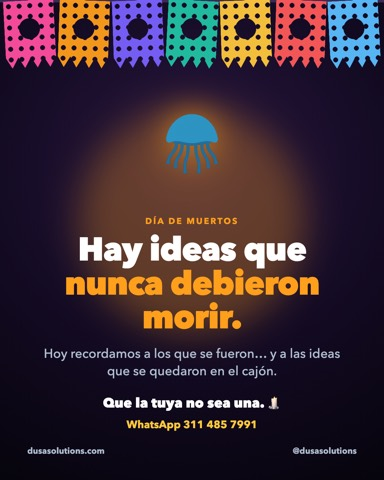
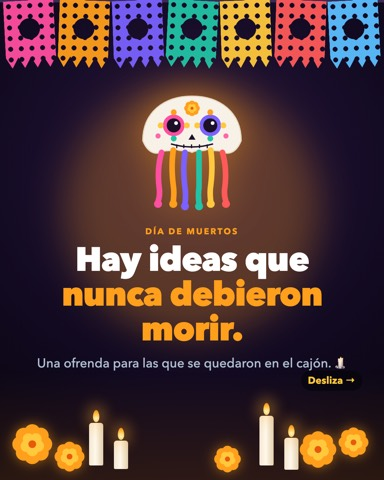
panel: Día de Muertos ahora es carrusel de 4 con la medusa calaverita

diff --git a/index.html b/index.html
@@ -250,7 +250,7 @@ footer{margin-top:28px;text-align:center;font-size:12px;color:var(--faint)}
 <div class="toast" id="toast" role="status" aria-live="polite"></div>
 
 <script>
-const APP = {"posts": [{"id": "anuncio", "group": "pausa", "date": null, "title": "Algo cambió en Dusa (anuncio)", "pillar": "Marca", "status": "listo", "caption": "Algo cambió en Dusa. 🔵\n\nNacimos el 13 de abril de 2025 construyendo apps para otros negocios, y nos encanta. Pero siempre tuvimos ideas propias… así que empezamos a construirlas.\n\nYa en el mundo:\n🚻 BathMap — el mapa de baños que le faltaba a México (bathmap.online)\n🧩 Blokku — nuestro juego de puzzle, ya en Google Play\n\nMuy pronto:\n🧾 Fakturo — cotiza, factura y cobra\n💸 TuLana — tu lana, organizada sola\n💪 Coachly — tu coach de entrenamiento con IA\n\nDesde hoy Dusa es un estudio de apps hechas para México. Hacemos las nuestras… y seguimos haciendo la tuya.\n\n¿Tienes una idea? Escríbenos por WhatsApp 👉 311 485 7991\n\nSíguenos para ver cómo las construimos. 🪼\n\n#HechoEnMéxico #Apps #Startups #DesarrolloDeApps #Guadalajara #GDL #BuildInPublic", "note": "Publícalo el día que Blokku aparezca en Google Play. Ese mismo día: bio nueva (PERFIL/BIO.md), portada de FB y archiva los posts viejos de agencia.", "slides": [{"full": "img/anuncio/1.jpg?v=8a9ebbe0", "thumb": "img/anuncio/t1.jpg?v=bb9941f2"}, {"full": "img/anuncio/2.jpg?v=7ba1bb19", "thumb": "img/anuncio/t2.jpg?v=8ef2c3f8"}, {"full": "img/anuncio/3.jpg?v=8657e8e2", "thumb": "img/anuncio/t3.jpg?v=9787a160"}, {"full": "img/anuncio/4.jpg?v=aaf8ee6f", "thumb": "img/anuncio/t4.jpg?v=48d3c8ba"}, {"full": "img/anuncio/5.jpg?v=892c2be6", "thumb": "img/anuncio/t5.jpg?v=96ed7650"}, {"full": "img/anuncio/6.jpg?v=250e0fbd", "thumb": "img/anuncio/t6.jpg?v=fd3e6b2f"}], "short": "Original", "when": "El día que Blokku salga en Google Play"}, {"id": "o1", "group": "oct", "date": "2026-10-02", "title": "BathMap: cómo usarlo en 3 pasos", "pillar": "Producto", "status": "listo", "caption": "¿Urgencia? 🚻 Así encuentras un baño en segundos con BathMap:\n\n1⃣ Abre el mapa y filtra: gratis, $5 o menos, con papel o jabón\n2⃣ Revisa la ficha: precio, cómo llegar y reseñas\n3⃣ ¿Conoces uno que no está? Agrégalo y ayuda a otros\n\nEs gratis y funciona desde el navegador 👉 bathmap.online\n\nGuárdalo para cuando lo necesites 🔖 y compártelo con quien siempre anda buscando baño 😅\n\n#BathMap #HechoEnMéxico #Guadalajara #CDMX #Apps", "note": "", "slides": [{"full": "img/o1/1.jpg?v=019a394d", "thumb": "img/o1/t1.jpg?v=a35bcdc6"}, {"full": "img/o1/2.jpg?v=bb81c3a8", "thumb": "img/o1/t2.jpg?v=d3210e54"}, {"full": "img/o1/3.jpg?v=05d0eb66", "thumb": "img/o1/t3.jpg?v=1a595bf3"}, {"full": "img/o1/4.jpg?v=720c1bb7", "thumb": "img/o1/t4.jpg?v=74b3b049"}]}, {"id": "o2", "group": "oct", "date": "2026-10-05", "title": "Cómo cobrar sin perseguir a nadie", "pillar": "Útil", "status": "listo", "caption": "Freelancer: si alguna vez mandaste \"¿cómo vas con el pago? 🙏\"… esto es para ti.\n\n4 hábitos para cobrar sin perseguir a nadie:\n1⃣ Pide anticipo (30–50%) antes de empezar\n2⃣ Todo por escrito: qué incluye, cuánto y cuándo se paga\n3⃣ Pon fecha de pago y avisa un día antes\n4⃣ Haz fácil pagarte: transferencia, tarjeta o link\n\nGuárdalo 🔖 y compártelo con ese amigo freelancer que siempre anda cobrando.\n\nP.D. Estamos creando Fakturo justo para esto. Muy pronto 🧾\n\n#Freelancer #Emprendedores #PyMEsMexico #Finanzas #Guadalajara", "note": "", "slides": [{"full": "img/o2/1.jpg?v=0dbce985", "thumb": "img/o2/t1.jpg?v=5e15197c"}, {"full": "img/o2/2.jpg?v=99d81dd8", "thumb": "img/o2/t2.jpg?v=eab1806f"}, {"full": "img/o2/3.jpg?v=47a7e26a", "thumb": "img/o2/t3.jpg?v=95d46f70"}, {"full": "img/o2/4.jpg?v=a1115e14", "thumb": "img/o2/t4.jpg?v=ec0dc45c"}, {"full": "img/o2/5.jpg?v=185dce34", "thumb": "img/o2/t5.jpg?v=b39daacc"}]}, {"id": "o3", "group": "oct", "date": "2026-10-07", "title": "Muy pronto: Fakturo", "pillar": "Producto", "status": "listo", "caption": "Muy pronto: Fakturo 🧾\n\nLa app que estamos construyendo para freelancers y pequeños negocios en México:\n✅ Cotiza y factura desde tu cel\n✅ Cobra por WhatsApp en un toque\n✅ PDFs con tu logo y tus colores\n✅ Ve cuánto cobraste, cuánto te deben y en qué gastas\n\n¿Quieres ser de los primeros en usarla? Mándanos la palabra FAKTURO por DM o por WhatsApp (311 485 7991) y te avisamos primero 👀\n\n#Fakturo #Freelancer #PyMEsMexico #Facturación #HechoEnMéxico", "note": "Pide que escriban FAKTURO: anota quién lo pide, es tu lista de espera.", "slides": [{"full": "img/o3/1.jpg?v=d94081e1", "thumb": "img/o3/t1.jpg?v=befe4843"}, {"full": "img/o3/2.jpg?v=aca05b66", "thumb": "img/o3/t2.jpg?v=941ab06f"}, {"full": "img/o3/3.jpg?v=c7ec0811", "thumb": "img/o3/t3.jpg?v=33bf565f"}, {"full": "img/o3/4.jpg?v=9410064a", "thumb": "img/o3/t4.jpg?v=342eff9e"}]}, {"id": "o4", "group": "oct", "date": "2026-10-09", "title": "Qué debe llevar una cotización profesional", "pillar": "Útil", "status": "listo", "caption": "Tu cotización dice mucho de ti antes de que empieces a trabajar 📄\n\nChecklist de una cotización profesional:\n✓ Tus datos y los de tu cliente\n✓ Qué incluye… y qué NO incluye\n✓ Precio con IVA desglosado\n✓ Tiempos de entrega\n✓ Forma y fechas de pago\n✓ Vigencia (ej. 15 días)\n\nCon esto te ahorras malentendidos, cambios infinitos y pagos atrasados.\n\nGuárdala 🔖 para tu próxima cotización.\n\n#Freelancer #Emprendedores #PyMEsMexico #Negocios #Guadalajara", "note": "", "slides": [{"full": "img/o4/1.jpg?v=86f1bd83", "thumb": "img/o4/t1.jpg?v=dff5a564"}]}, {"id": "o5", "group": "oct", "date": "2026-10-12", "title": "Lo que construimos para nosotros, lo construimos para ti", "pillar": "Estudio", "status": "listo", "caption": "Hacemos nuestras propias apps (BathMap, Blokku y las que vienen)… y también hacemos la tuya 🪼\n\nAsí trabajamos:\n1⃣ Platicamos 15 minutos, gratis\n2⃣ Te mandamos una propuesta por escrito: qué, cuánto y cuándo\n3⃣ Cada semana ves avances\n4⃣ El código es tuyo, siempre\n\n¿Tienes una idea dando vueltas? Escríbenos por WhatsApp 👉 311 485 7991\n\n#DesarrolloDeApps #DesarrolloWeb #Emprendedores #Guadalajara #HechoEnMéxico", "note": "", "slides": [{"full": "img/o5/1.jpg?v=4d8263ba", "thumb": "img/o5/t1.jpg?v=0d181015"}]}, {"id": "o6", "group": "oct", "date": "2026-10-14", "title": "Muy pronto: TuLana", "pillar": "Producto", "status": "listo", "caption": "Muy pronto: TuLana 💸 Tu lana, organizada sola.\n\n✅ Detecta cada cargo leyendo las notificaciones de tu banco\n✅ Sin login y sin dar tu clave: todo se queda en tu cel\n✅ ¿Pagaste en efectivo? Escríbelo como hablas: \"350 tacos con el jefe\" y listo\n\nSabes en qué se te va la quincena sin anotar nada.\n\nLlega primero a Android. Síguenos para enterarte del lanzamiento 🔔\n\n#TuLana #FinanzasPersonales #Ahorro #Quincena #HechoEnMéxico", "note": "", "slides": [{"full": "img/o6/1.jpg?v=efe859bd", "thumb": "img/o6/t1.jpg?v=a278c8f7"}, {"full": "img/o6/2.jpg?v=39ededd9", "thumb": "img/o6/t2.jpg?v=39d37c4b"}, {"full": "img/o6/3.jpg?v=c1a8f348", "thumb": "img/o6/t3.jpg?v=4bfb4633"}]}, {"id": "o7", "group": "oct", "date": "2026-10-16", "title": "Separa tu lana personal de la del negocio", "pillar": "Útil", "status": "listo", "caption": "¿Cobras y todo cae en la misma cuenta que usas para el súper? 😬\n\n3 pasos para separar tu lana de la del negocio:\n1⃣ Dos cuentas: una del negocio y otra personal\n2⃣ Págate un \"sueldo\" fijo cada quincena\n3⃣ Aparta un porcentaje de cada cobro para impuestos (tu contador te dice cuánto)\n\nParece poco, pero cambia todo: sabes cuánto ganas de verdad.\n\nGuárdalo 🔖 y empieza este mes.\n\n#Freelancer #FinanzasPersonales #Emprendedores #PyMEsMexico #Quincena", "note": "", "slides": [{"full": "img/o7/1.jpg?v=8f5414f1", "thumb": "img/o7/t1.jpg?v=cb87b66e"}, {"full": "img/o7/2.jpg?v=f77c85a3", "thumb": "img/o7/t2.jpg?v=6def560e"}, {"full": "img/o7/3.jpg?v=e5c42466", "thumb": "img/o7/t3.jpg?v=04aea40a"}, {"full": "img/o7/4.jpg?v=ac885774", "thumb": "img/o7/t4.jpg?v=a558ed71"}]}, {"id": "o8", "group": "oct", "date": "2026-10-19", "title": "BathMap nos cuesta ~$0 al mes", "pillar": "Detrás de cámaras", "status": "listo", "caption": "BathMap es gratis para todos… y a nosotros nos cuesta ~$0 al mes en servidores 🤯\n\n¿Cómo?\n⚡ Cloudflare Workers: corre cerca de cada usuario y su plan gratis nos alcanza\n🗺 OpenStreetMap: mapas y datos abiertos, sin licencias caras\n🐘 Neon (Postgres): base de datos en plan gratis\n\nLa lección: una buena idea no necesita un presupuesto enorme, necesita las decisiones correctas.\n\n¿Tienes una idea y crees que es muy cara de hacer? Platiquemos 👉 311 485 7991\n\n#DetrásDeCámaras #BuildInPublic #Startups #Tecnología #HechoEnMéxico", "note": "", "slides": [{"full": "img/o8/1.jpg?v=ce18896e", "thumb": "img/o8/t1.jpg?v=f93bb3d4"}, {"full": "img/o8/2.jpg?v=c8082569", "thumb": "img/o8/t2.jpg?v=9667f7a9"}, {"full": "img/o8/3.jpg?v=a62a23c1", "thumb": "img/o8/t3.jpg?v=eb95b9bd"}, {"full": "img/o8/4.jpg?v=6158758d", "thumb": "img/o8/t4.jpg?v=50aa61dd"}]}, {"id": "o9", "group": "oct", "date": "2026-10-21", "title": "Muy pronto: Coachly", "pillar": "Producto", "status": "listo", "caption": "Muy pronto: Coachly 💪 Tu coach de entrenamiento con IA.\n\n✅ Rutinas para cada nivel: fuerza, cardio, HIIT, yoga\n✅ Cada ejercicio explicado paso a paso\n✅ Tu progreso: rachas, récords y medidas\n\nPara que entrenes con un plan, no a ciegas.\n\nSíguenos para enterarte del lanzamiento 🔔\n\n#Coachly #Fitness #Entrenamiento #Gym #HechoEnMéxico", "note": "", "slides": [{"full": "img/o9/1.jpg?v=a8edcb52", "thumb": "img/o9/t1.jpg?v=dcbd2355"}, {"full": "img/o9/2.jpg?v=8fbee568", "thumb": "img/o9/t2.jpg?v=bb4155da"}, {"full": "img/o9/3.jpg?v=85665c19", "thumb": "img/o9/t3.jpg?v=d3c58796"}]}, {"id": "o10", "group": "oct", "date": "2026-10-23", "title": "¿Tu negocio necesita app o le basta una web?", "pillar": "Útil", "status": "listo", "caption": "¿Tu negocio necesita una app… o le basta una web? 🤔\n\nTe basta una WEB si:\n✓ Quieres que te encuentren en Google\n✓ Muestras tu catálogo o servicios\n✓ Recibes pedidos o citas por mensaje\n\nNecesitas una APP si:\n✓ Tus clientes regresan seguido\n✓ Necesitas avisarles con notificaciones\n✓ Usas funciones del cel: cámara, ubicación, pagos\n\n¿Sigues con la duda? Te decimos qué te conviene, gratis, en 15 minutos 👉 WhatsApp 311 485 7991\n\n#DesarrolloWeb #DesarrolloDeApps #PyMEsMexico #Emprendedores #Guadalajara", "note": "", "slides": [{"full": "img/o10/1.jpg?v=3a7618c1", "thumb": "img/o10/t1.jpg?v=ce37d012"}, {"full": "img/o10/2.jpg?v=acc26dc5", "thumb": "img/o10/t2.jpg?v=d0c05549"}, {"full": "img/o10/3.jpg?v=5e8995d0", "thumb": "img/o10/t3.jpg?v=799792db"}, {"full": "img/o10/4.jpg?v=a1c63ee0", "thumb": "img/o10/t4.jpg?v=cd7e8762"}]}, {"id": "o11", "group": "oct", "date": "2026-10-31", "title": "Halloween: los 3 sustos de todo freelancer", "pillar": "Marca", "status": "listo", "caption": "Feliz Halloween 🎃 Los 3 sustos de todo freelancer (y cómo espantarlos):\n\n👻 \"Te pago la otra semana\" → fecha límite desde la cotización, anticipo antes de empezar y tus datos de pago en la factura.\n\n🕸 Tu página no abre en el celular → ábrela hoy en tu teléfono, con datos. WhatsApp visible y precios claros.\n\n🧟 La cotización que nadie volvió a ver → en PDF, con vigencia, y seguimiento a los 3 días.\n\n¿Cuál te dio más miedo? Cuéntanos en los comentarios 👇\nY si alguno es tuyo, escríbenos 👉 WhatsApp 311 485 7991\n\n#Halloween #Freelancer #Emprendedores #PyMEsMexico #Guadalajara", "note": "", "slides": [{"full": "img/o11/1.jpg?v=faf9f67c", "thumb": "img/o11/t1.jpg?v=c56adeed"}, {"full": "img/o11/2.jpg?v=9618c42e", "thumb": "img/o11/t2.jpg?v=ba41bcef"}, {"full": "img/o11/3.jpg?v=ebb3b05b", "thumb": "img/o11/t3.jpg?v=e092637a"}, {"full": "img/o11/4.jpg?v=f8f50d9a", "thumb": "img/o11/t4.jpg?v=0a815dc1"}, {"full": "img/o11/5.jpg?v=e5845245", "thumb": "img/o11/t5.jpg?v=a07b0c3f"}]}, {"id": "o12", "group": "oct", "date": "2026-11-02", "title": "Día de Muertos: ideas que no deben morir", "pillar": "Marca", "status": "listo", "caption": "Este Día de Muertos recordamos a los que se fueron… 🕯🌼\n\n…y también a todas esas ideas que se quedaron en el cajón: la app que nunca se hizo, el negocio que nunca abrió su página, el \"algún día lo hago\".\n\nQue la tuya no sea una. Escríbenos y la platicamos 👉 311 485 7991\n\n#DíaDeMuertos #HechoEnMéxico #Emprendedores #Ideas #Guadalajara", "note": "", "slides": [{"full": "img/o12/1.jpg?v=9a7d14e7", "thumb": "img/o12/t1.jpg?v=11324db6"}]}, {"id": "o13", "group": "pausa", "date": null, "title": "Blokku ya está en Google Play", "pillar": "Producto", "status": "listo", "caption": "¡Blokku ya está en Google Play! 🧩\n\nNuestro primer juego: un puzzle de bloques para despejar la mente. Gratis, funciona sin conexión y está hecho aquí en México por el equipo de Dusa.\n\nDescárgalo: busca \"Blokku\" en Google Play o entra a blokku.online 👉\n\nSi te gusta, déjanos tu reseña ⭐ — nos ayuda muchísimo.\n\n#Blokku #JuegosMóviles #Puzzle #HechoEnMéxico #IndieDev #Android", "note": "Súbelo solo cuando Blokku ya esté publicado en Google Play (en el siguiente hueco libre después del anuncio).", "slides": [{"full": "img/o13/1.jpg?v=594f89e4", "thumb": "img/o13/t1.jpg?v=bc082934"}]}, {"id": "o14", "group": "pausa", "date": null, "title": "Así fue lanzar Blokku en Google Play", "pillar": "Detrás de cámaras", "status": "listo", "caption": "Así fue lanzar nuestra primera app en Google Play 🧩\n\n📅 14 días de prueba cerrada (Google lo pide a las cuentas nuevas)\n👥 24 testers en México, Argentina, Bolivia y Ecuador — nos pedían 12\n✅ 3 días para que aprobaran la publicación\n\nLa lección: programar es la mitad. La otra mitad es probar, pulir y cumplir requisitos.\n\nGracias a los 24 que probaron Blokku 💙 ¿Quieres probar nuestra próxima app antes que nadie? Escríbenos y te apuntamos.\n\n#DetrásDeCámaras #IndieDev #GooglePlay #HechoEnMéxico #BuildInPublic", "note": "Después del 13, cuando Blokku ya esté en Play.", "slides": [{"full": "img/o14/1.jpg?v=300cabd6", "thumb": "img/o14/t1.jpg?v=7c2092ee"}, {"full": "img/o14/2.jpg?v=4dda951b", "thumb": "img/o14/t2.jpg?v=7ce53d66"}, {"full": "img/o14/3.jpg?v=41452d17", "thumb": "img/o14/t3.jpg?v=0e2f7a5c"}, {"full": "img/o14/4.jpg?v=1b8a00c6", "thumb": "img/o14/t4.jpg?v=312cff1c"}, {"full": "img/o14/5.jpg?v=17ece00b", "thumb": "img/o14/t5.jpg?v=46d160f7"}]}], "h1": "Octubre <span>2026</span>", "free": ["2026-10-26", "2026-10-28", "2026-10-30"], "sub": "Lunes, miércoles y viernes a las 7–8 pm", "upd": "Actualizado el 01/10/2026 · estudio de apps hechas para México"};
+const APP = {"posts": [{"id": "anuncio", "group": "pausa", "date": null, "title": "Algo cambió en Dusa (anuncio)", "pillar": "Marca", "status": "listo", "caption": "Algo cambió en Dusa. 🔵\n\nNacimos el 13 de abril de 2025 construyendo apps para otros negocios, y nos encanta. Pero siempre tuvimos ideas propias… así que empezamos a construirlas.\n\nYa en el mundo:\n🚻 BathMap — el mapa de baños que le faltaba a México (bathmap.online)\n🧩 Blokku — nuestro juego de puzzle, ya en Google Play\n\nMuy pronto:\n🧾 Fakturo — cotiza, factura y cobra\n💸 TuLana — tu lana, organizada sola\n💪 Coachly — tu coach de entrenamiento con IA\n\nDesde hoy Dusa es un estudio de apps hechas para México. Hacemos las nuestras… y seguimos haciendo la tuya.\n\n¿Tienes una idea? Escríbenos por WhatsApp 👉 311 485 7991\n\nSíguenos para ver cómo las construimos. 🪼\n\n#HechoEnMéxico #Apps #Startups #DesarrolloDeApps #Guadalajara #GDL #BuildInPublic", "note": "Publícalo el día que Blokku aparezca en Google Play. Ese mismo día: bio nueva (PERFIL/BIO.md), portada de FB y archiva los posts viejos de agencia.", "slides": [{"full": "img/anuncio/1.jpg?v=8a9ebbe0", "thumb": "img/anuncio/t1.jpg?v=bb9941f2"}, {"full": "img/anuncio/2.jpg?v=7ba1bb19", "thumb": "img/anuncio/t2.jpg?v=8ef2c3f8"}, {"full": "img/anuncio/3.jpg?v=8657e8e2", "thumb": "img/anuncio/t3.jpg?v=9787a160"}, {"full": "img/anuncio/4.jpg?v=aaf8ee6f", "thumb": "img/anuncio/t4.jpg?v=48d3c8ba"}, {"full": "img/anuncio/5.jpg?v=892c2be6", "thumb": "img/anuncio/t5.jpg?v=96ed7650"}, {"full": "img/anuncio/6.jpg?v=250e0fbd", "thumb": "img/anuncio/t6.jpg?v=fd3e6b2f"}], "short": "Original", "when": "El día que Blokku salga en Google Play"}, {"id": "o1", "group": "oct", "date": "2026-10-02", "title": "BathMap: cómo usarlo en 3 pasos", "pillar": "Producto", "status": "listo", "caption": "¿Urgencia? 🚻 Así encuentras un baño en segundos con BathMap:\n\n1⃣ Abre el mapa y filtra: gratis, $5 o menos, con papel o jabón\n2⃣ Revisa la ficha: precio, cómo llegar y reseñas\n3⃣ ¿Conoces uno que no está? Agrégalo y ayuda a otros\n\nEs gratis y funciona desde el navegador 👉 bathmap.online\n\nGuárdalo para cuando lo necesites 🔖 y compártelo con quien siempre anda buscando baño 😅\n\n#BathMap #HechoEnMéxico #Guadalajara #CDMX #Apps", "note": "", "slides": [{"full": "img/o1/1.jpg?v=019a394d", "thumb": "img/o1/t1.jpg?v=a35bcdc6"}, {"full": "img/o1/2.jpg?v=bb81c3a8", "thumb": "img/o1/t2.jpg?v=d3210e54"}, {"full": "img/o1/3.jpg?v=05d0eb66", "thumb": "img/o1/t3.jpg?v=1a595bf3"}, {"full": "img/o1/4.jpg?v=720c1bb7", "thumb": "img/o1/t4.jpg?v=74b3b049"}]}, {"id": "o2", "group": "oct", "date": "2026-10-05", "title": "Cómo cobrar sin perseguir a nadie", "pillar": "Útil", "status": "listo", "caption": "Freelancer: si alguna vez mandaste \"¿cómo vas con el pago? 🙏\"… esto es para ti.\n\n4 hábitos para cobrar sin perseguir a nadie:\n1⃣ Pide anticipo (30–50%) antes de empezar\n2⃣ Todo por escrito: qué incluye, cuánto y cuándo se paga\n3⃣ Pon fecha de pago y avisa un día antes\n4⃣ Haz fácil pagarte: transferencia, tarjeta o link\n\nGuárdalo 🔖 y compártelo con ese amigo freelancer que siempre anda cobrando.\n\nP.D. Estamos creando Fakturo justo para esto. Muy pronto 🧾\n\n#Freelancer #Emprendedores #PyMEsMexico #Finanzas #Guadalajara", "note": "", "slides": [{"full": "img/o2/1.jpg?v=0dbce985", "thumb": "img/o2/t1.jpg?v=5e15197c"}, {"full": "img/o2/2.jpg?v=99d81dd8", "thumb": "img/o2/t2.jpg?v=eab1806f"}, {"full": "img/o2/3.jpg?v=47a7e26a", "thumb": "img/o2/t3.jpg?v=95d46f70"}, {"full": "img/o2/4.jpg?v=a1115e14", "thumb": "img/o2/t4.jpg?v=ec0dc45c"}, {"full": "img/o2/5.jpg?v=185dce34", "thumb": "img/o2/t5.jpg?v=b39daacc"}]}, {"id": "o3", "group": "oct", "date": "2026-10-07", "title": "Muy pronto: Fakturo", "pillar": "Producto", "status": "listo", "caption": "Muy pronto: Fakturo 🧾\n\nLa app que estamos construyendo para freelancers y pequeños negocios en México:\n✅ Cotiza y factura desde tu cel\n✅ Cobra por WhatsApp en un toque\n✅ PDFs con tu logo y tus colores\n✅ Ve cuánto cobraste, cuánto te deben y en qué gastas\n\n¿Quieres ser de los primeros en usarla? Mándanos la palabra FAKTURO por DM o por WhatsApp (311 485 7991) y te avisamos primero 👀\n\n#Fakturo #Freelancer #PyMEsMexico #Facturación #HechoEnMéxico", "note": "Pide que escriban FAKTURO: anota quién lo pide, es tu lista de espera.", "slides": [{"full": "img/o3/1.jpg?v=d94081e1", "thumb": "img/o3/t1.jpg?v=befe4843"}, {"full": "img/o3/2.jpg?v=aca05b66", "thumb": "img/o3/t2.jpg?v=941ab06f"}, {"full": "img/o3/3.jpg?v=c7ec0811", "thumb": "img/o3/t3.jpg?v=33bf565f"}, {"full": "img/o3/4.jpg?v=9410064a", "thumb": "img/o3/t4.jpg?v=342eff9e"}]}, {"id": "o4", "group": "oct", "date": "2026-10-09", "title": "Qué debe llevar una cotización profesional", "pillar": "Útil", "status": "listo", "caption": "Tu cotización dice mucho de ti antes de que empieces a trabajar 📄\n\nChecklist de una cotización profesional:\n✓ Tus datos y los de tu cliente\n✓ Qué incluye… y qué NO incluye\n✓ Precio con IVA desglosado\n✓ Tiempos de entrega\n✓ Forma y fechas de pago\n✓ Vigencia (ej. 15 días)\n\nCon esto te ahorras malentendidos, cambios infinitos y pagos atrasados.\n\nGuárdala 🔖 para tu próxima cotización.\n\n#Freelancer #Emprendedores #PyMEsMexico #Negocios #Guadalajara", "note": "", "slides": [{"full": "img/o4/1.jpg?v=86f1bd83", "thumb": "img/o4/t1.jpg?v=dff5a564"}]}, {"id": "o5", "group": "oct", "date": "2026-10-12", "title": "Lo que construimos para nosotros, lo construimos para ti", "pillar": "Estudio", "status": "listo", "caption": "Hacemos nuestras propias apps (BathMap, Blokku y las que vienen)… y también hacemos la tuya 🪼\n\nAsí trabajamos:\n1⃣ Platicamos 15 minutos, gratis\n2⃣ Te mandamos una propuesta por escrito: qué, cuánto y cuándo\n3⃣ Cada semana ves avances\n4⃣ El código es tuyo, siempre\n\n¿Tienes una idea dando vueltas? Escríbenos por WhatsApp 👉 311 485 7991\n\n#DesarrolloDeApps #DesarrolloWeb #Emprendedores #Guadalajara #HechoEnMéxico", "note": "", "slides": [{"full": "img/o5/1.jpg?v=4d8263ba", "thumb": "img/o5/t1.jpg?v=0d181015"}]}, {"id": "o6", "group": "oct", "date": "2026-10-14", "title": "Muy pronto: TuLana", "pillar": "Producto", "status": "listo", "caption": "Muy pronto: TuLana 💸 Tu lana, organizada sola.\n\n✅ Detecta cada cargo leyendo las notificaciones de tu banco\n✅ Sin login y sin dar tu clave: todo se queda en tu cel\n✅ ¿Pagaste en efectivo? Escríbelo como hablas: \"350 tacos con el jefe\" y listo\n\nSabes en qué se te va la quincena sin anotar nada.\n\nLlega primero a Android. Síguenos para enterarte del lanzamiento 🔔\n\n#TuLana #FinanzasPersonales #Ahorro #Quincena #HechoEnMéxico", "note": "", "slides": [{"full": "img/o6/1.jpg?v=efe859bd", "thumb": "img/o6/t1.jpg?v=a278c8f7"}, {"full": "img/o6/2.jpg?v=39ededd9", "thumb": "img/o6/t2.jpg?v=39d37c4b"}, {"full": "img/o6/3.jpg?v=c1a8f348", "thumb": "img/o6/t3.jpg?v=4bfb4633"}]}, {"id": "o7", "group": "oct", "date": "2026-10-16", "title": "Separa tu lana personal de la del negocio", "pillar": "Útil", "status": "listo", "caption": "¿Cobras y todo cae en la misma cuenta que usas para el súper? 😬\n\n3 pasos para separar tu lana de la del negocio:\n1⃣ Dos cuentas: una del negocio y otra personal\n2⃣ Págate un \"sueldo\" fijo cada quincena\n3⃣ Aparta un porcentaje de cada cobro para impuestos (tu contador te dice cuánto)\n\nParece poco, pero cambia todo: sabes cuánto ganas de verdad.\n\nGuárdalo 🔖 y empieza este mes.\n\n#Freelancer #FinanzasPersonales #Emprendedores #PyMEsMexico #Quincena", "note": "", "slides": [{"full": "img/o7/1.jpg?v=8f5414f1", "thumb": "img/o7/t1.jpg?v=cb87b66e"}, {"full": "img/o7/2.jpg?v=f77c85a3", "thumb": "img/o7/t2.jpg?v=6def560e"}, {"full": "img/o7/3.jpg?v=e5c42466", "thumb": "img/o7/t3.jpg?v=04aea40a"}, {"full": "img/o7/4.jpg?v=ac885774", "thumb": "img/o7/t4.jpg?v=a558ed71"}]}, {"id": "o8", "group": "oct", "date": "2026-10-19", "title": "BathMap nos cuesta ~$0 al mes", "pillar": "Detrás de cámaras", "status": "listo", "caption": "BathMap es gratis para todos… y a nosotros nos cuesta ~$0 al mes en servidores 🤯\n\n¿Cómo?\n⚡ Cloudflare Workers: corre cerca de cada usuario y su plan gratis nos alcanza\n🗺 OpenStreetMap: mapas y datos abiertos, sin licencias caras\n🐘 Neon (Postgres): base de datos en plan gratis\n\nLa lección: una buena idea no necesita un presupuesto enorme, necesita las decisiones correctas.\n\n¿Tienes una idea y crees que es muy cara de hacer? Platiquemos 👉 311 485 7991\n\n#DetrásDeCámaras #BuildInPublic #Startups #Tecnología #HechoEnMéxico", "note": "", "slides": [{"full": "img/o8/1.jpg?v=ce18896e", "thumb": "img/o8/t1.jpg?v=f93bb3d4"}, {"full": "img/o8/2.jpg?v=c8082569", "thumb": "img/o8/t2.jpg?v=9667f7a9"}, {"full": "img/o8/3.jpg?v=a62a23c1", "thumb": "img/o8/t3.jpg?v=eb95b9bd"}, {"full": "img/o8/4.jpg?v=6158758d", "thumb": "img/o8/t4.jpg?v=50aa61dd"}]}, {"id": "o9", "group": "oct", "date": "2026-10-21", "title": "Muy pronto: Coachly", "pillar": "Producto", "status": "listo", "caption": "Muy pronto: Coachly 💪 Tu coach de entrenamiento con IA.\n\n✅ Rutinas para cada nivel: fuerza, cardio, HIIT, yoga\n✅ Cada ejercicio explicado paso a paso\n✅ Tu progreso: rachas, récords y medidas\n\nPara que entrenes con un plan, no a ciegas.\n\nSíguenos para enterarte del lanzamiento 🔔\n\n#Coachly #Fitness #Entrenamiento #Gym #HechoEnMéxico", "note": "", "slides": [{"full": "img/o9/1.jpg?v=a8edcb52", "thumb": "img/o9/t1.jpg?v=dcbd2355"}, {"full": "img/o9/2.jpg?v=8fbee568", "thumb": "img/o9/t2.jpg?v=bb4155da"}, {"full": "img/o9/3.jpg?v=85665c19", "thumb": "img/o9/t3.jpg?v=d3c58796"}]}, {"id": "o10", "group": "oct", "date": "2026-10-23", "title": "¿Tu negocio necesita app o le basta una web?", "pillar": "Útil", "status": "listo", "caption": "¿Tu negocio necesita una app… o le basta una web? 🤔\n\nTe basta una WEB si:\n✓ Quieres que te encuentren en Google\n✓ Muestras tu catálogo o servicios\n✓ Recibes pedidos o citas por mensaje\n\nNecesitas una APP si:\n✓ Tus clientes regresan seguido\n✓ Necesitas avisarles con notificaciones\n✓ Usas funciones del cel: cámara, ubicación, pagos\n\n¿Sigues con la duda? Te decimos qué te conviene, gratis, en 15 minutos 👉 WhatsApp 311 485 7991\n\n#DesarrolloWeb #DesarrolloDeApps #PyMEsMexico #Emprendedores #Guadalajara", "note": "", "slides": [{"full": "img/o10/1.jpg?v=3a7618c1", "thumb": "img/o10/t1.jpg?v=ce37d012"}, {"full": "img/o10/2.jpg?v=acc26dc5", "thumb": "img/o10/t2.jpg?v=d0c05549"}, {"full": "img/o10/3.jpg?v=5e8995d0", "thumb": "img/o10/t3.jpg?v=799792db"}, {"full": "img/o10/4.jpg?v=a1c63ee0", "thumb": "img/o10/t4.jpg?v=cd7e8762"}]}, {"id": "o11", "group": "oct", "date": "2026-10-31", "title": "Halloween: los 3 sustos de todo freelancer", "pillar": "Marca", "status": "listo", "caption": "Feliz Halloween 🎃 Los 3 sustos de todo freelancer (y cómo espantarlos):\n\n👻 \"Te pago la otra semana\" → fecha límite desde la cotización, anticipo antes de empezar y tus datos de pago en la factura.\n\n🕸 Tu página no abre en el celular → ábrela hoy en tu teléfono, con datos. WhatsApp visible y precios claros.\n\n🧟 La cotización que nadie volvió a ver → en PDF, con vigencia, y seguimiento a los 3 días.\n\n¿Cuál te dio más miedo? Cuéntanos en los comentarios 👇\nY si alguno es tuyo, escríbenos 👉 WhatsApp 311 485 7991\n\n#Halloween #Freelancer #Emprendedores #PyMEsMexico #Guadalajara", "note": "", "slides": [{"full": "img/o11/1.jpg?v=faf9f67c", "thumb": "img/o11/t1.jpg?v=c56adeed"}, {"full": "img/o11/2.jpg?v=9618c42e", "thumb": "img/o11/t2.jpg?v=ba41bcef"}, {"full": "img/o11/3.jpg?v=ebb3b05b", "thumb": "img/o11/t3.jpg?v=e092637a"}, {"full": "img/o11/4.jpg?v=f8f50d9a", "thumb": "img/o11/t4.jpg?v=0a815dc1"}, {"full": "img/o11/5.jpg?v=e5845245", "thumb": "img/o11/t5.jpg?v=a07b0c3f"}]}, {"id": "o12", "group": "oct", "date": "2026-11-02", "title": "Día de Muertos: ideas que no deben morir", "pillar": "Marca", "status": "listo", "caption": "Este Día de Muertos le ponemos ofrenda a las ideas que se fueron sin despedirse 🕯🌼\n\n📱 La app que \"algún día\" ibas a hacer\n🌐 La página que nunca se publicó\n💡 El negocio que se quedó en plática\n\nPero las ideas se pueden revivir:\n✍ Escríbela: qué problema resuelve, para quién y cómo cobras\n🗣 Pregúntale a 10 personas si la necesitan\n🚀 Pruébala en chiquito antes de construir todo\n\nQue la tuya no sea una. Escríbenos y la platicamos 👉 WhatsApp 311 485 7991\n\n#DíaDeMuertos #HechoEnMéxico #Emprendedores #Ideas #Guadalajara", "note": "", "slides": [{"full": "img/o12/1.jpg?v=ff88428e", "thumb": "img/o12/t1.jpg?v=89f6a5bd"}, {"full": "img/o12/2.jpg?v=44dfb4a0", "thumb": "img/o12/t2.jpg?v=da1ee485"}, {"full": "img/o12/3.jpg?v=d4a9d514", "thumb": "img/o12/t3.jpg?v=34849c8c"}, {"full": "img/o12/4.jpg?v=ff0a3a49", "thumb": "img/o12/t4.jpg?v=e755c919"}]}, {"id": "o13", "group": "pausa", "date": null, "title": "Blokku ya está en Google Play", "pillar": "Producto", "status": "listo", "caption": "¡Blokku ya está en Google Play! 🧩\n\nNuestro primer juego: un puzzle de bloques para despejar la mente. Gratis, funciona sin conexión y está hecho aquí en México por el equipo de Dusa.\n\nDescárgalo: busca \"Blokku\" en Google Play o entra a blokku.online 👉\n\nSi te gusta, déjanos tu reseña ⭐ — nos ayuda muchísimo.\n\n#Blokku #JuegosMóviles #Puzzle #HechoEnMéxico #IndieDev #Android", "note": "Súbelo solo cuando Blokku ya esté publicado en Google Play (en el siguiente hueco libre después del anuncio).", "slides": [{"full": "img/o13/1.jpg?v=594f89e4", "thumb": "img/o13/t1.jpg?v=bc082934"}]}, {"id": "o14", "group": "pausa", "date": null, "title": "Así fue lanzar Blokku en Google Play", "pillar": "Detrás de cámaras", "status": "listo", "caption": "Así fue lanzar nuestra primera app en Google Play 🧩\n\n📅 14 días de prueba cerrada (Google lo pide a las cuentas nuevas)\n👥 24 testers en México, Argentina, Bolivia y Ecuador — nos pedían 12\n✅ 3 días para que aprobaran la publicación\n\nLa lección: programar es la mitad. La otra mitad es probar, pulir y cumplir requisitos.\n\nGracias a los 24 que probaron Blokku 💙 ¿Quieres probar nuestra próxima app antes que nadie? Escríbenos y te apuntamos.\n\n#DetrásDeCámaras #IndieDev #GooglePlay #HechoEnMéxico #BuildInPublic", "note": "Después del 13, cuando Blokku ya esté en Play.", "slides": [{"full": "img/o14/1.jpg?v=300cabd6", "thumb": "img/o14/t1.jpg?v=7c2092ee"}, {"full": "img/o14/2.jpg?v=4dda951b", "thumb": "img/o14/t2.jpg?v=7ce53d66"}, {"full": "img/o14/3.jpg?v=41452d17", "thumb": "img/o14/t3.jpg?v=0e2f7a5c"}, {"full": "img/o14/4.jpg?v=1b8a00c6", "thumb": "img/o14/t4.jpg?v=312cff1c"}, {"full": "img/o14/5.jpg?v=17ece00b", "thumb": "img/o14/t5.jpg?v=46d160f7"}]}], "h1": "Octubre <span>2026</span>", "free": ["2026-10-26", "2026-10-28", "2026-10-30"], "sub": "Lunes, miércoles y viernes a las 7–8 pm", "upd": "Actualizado el 02/10/2026 · estudio de apps hechas para México"};
 (() => {
 const $ = (s) => document.querySelector(s);
 const esc = (s) => String(s).replace(/[&<>"]/g, c => ({ '&': '&amp;', '<': '&lt;', '>': '&gt;', '"': '&quot;' }[c]));
